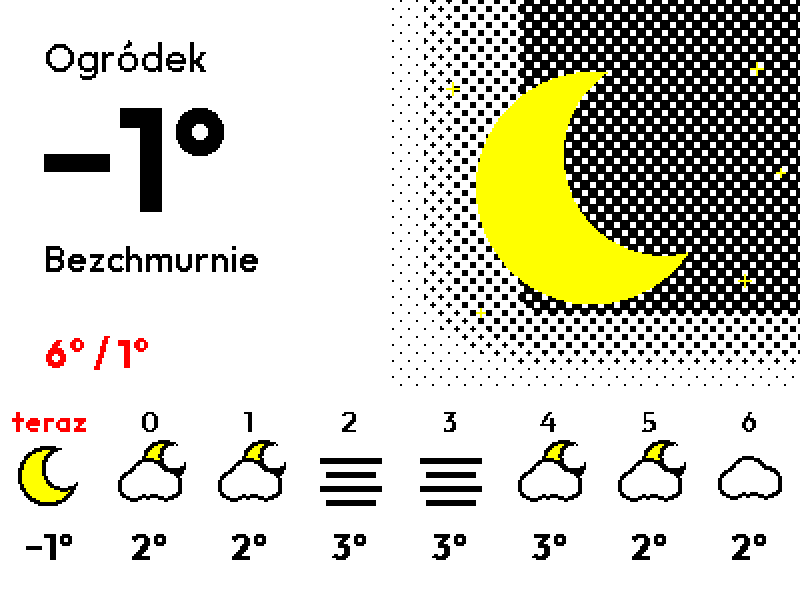
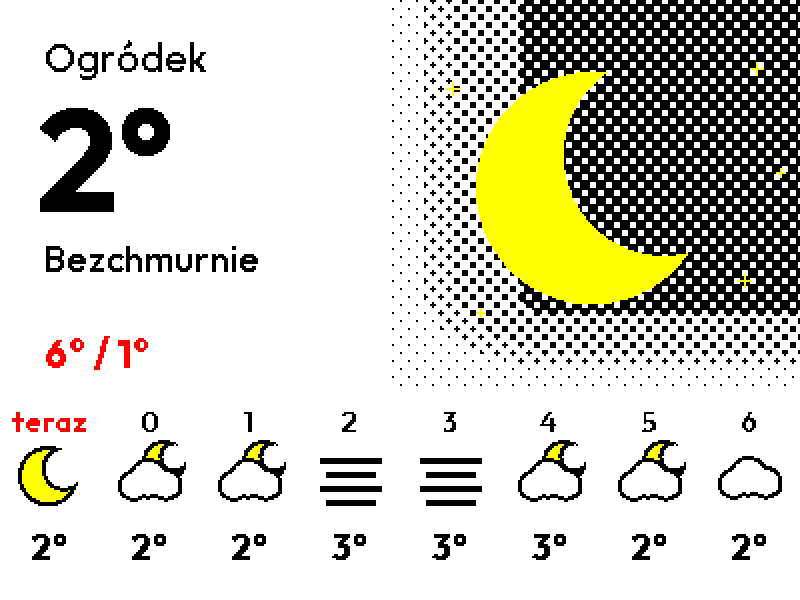
Add battery reporting and stale data warnings, and fix review findings
Report battery voltage, level and charging state to Home Assistant, and warn
on screen when the battery is low, Home Assistant has been unreachable for 8
wakes, or the data is over an hour old.

Fixes from an independent review: keep the power latch held while awake, reject
invalid helper data so it can't blank the screen, retry failed redraws, wait
longer for Home Assistant after a manual wake, and confirm new firmware only
after it reads valid data. Also turn off panel power during sleep and keep the
boot counter out of flash.

In the Home Assistant package, add a timestamp to the data, only change the
shown temperature once the real one is a full degree away, and set entities in
one place. The README's setup and update steps are corrected.

Changed region(s): [[0.0312, 0.18, 0.2812, 0.36], [0.0312, 0.87, 0.0938, 0.93]]

diff --git a/design/preview.py b/design/preview.py
@@ -24,8 +24,8 @@ DAY = {
               ("13", "partly", "3°"), ("14", "cloud", "3°"), ("15", "rain", "2°"), ("16", "rain", "1°")],
 }
 NIGHT = {
-    "hero": "clear_night", "temp": f"{MINUS}1°", "lines": ("Bezchmurnie", ""), "range": f"6° / 1°",
-    "hours": [("teraz", "moon", f"{MINUS}1°"), ("0", "partly_moon", "2°"), ("1", "partly_moon", "2°"), ("2", "fog", "3°"),
+    "hero": "clear_night", "temp": "2°", "lines": ("Bezchmurnie", ""), "range": "6° / 1°",
+    "hours": [("teraz", "moon", "2°"), ("0", "partly_moon", "2°"), ("1", "partly_moon", "2°"), ("2", "fog", "3°"),
               ("3", "fog", "3°"), ("4", "partly_moon", "3°"), ("5", "partly_moon", "2°"), ("6", "cloud", "2°")],
 }
 

diff --git a/design/art.py b/design/art.py
@@ -40,8 +40,7 @@ def streaks(c, spots, color, length=15, width=2):
 def bolt(c, x, y, s=1.0):
     points = [(0, 0), (-16, 34), (-3, 34), (-13, 66), (17, 22), (3, 22), (13, 0)]
     scaled = [((x + px * s) * SS, (y + py * s) * SS) for px, py in points]
-    outline = [((x + px * s * 1.0) * SS, (y + py * s) * SS) for px, py in points]
-    c.shape(BLACK, lambda d: d.line(outline + outline[:1], fill=255, width=5 * SS))
+    c.shape(BLACK, lambda d: d.line(scaled + scaled[:1], fill=255, width=5 * SS))
     c.shape(YELLOW, lambda d: d.polygon(scaled, fill=255))
 
 

diff --git a/esphome/rtc_state.h b/esphome/rtc_state.h
@@ -1,0 +1,10 @@
+#pragma once
+
+#include <cstdint>
+
+#include "esp_attr.h"
+
+// RTC memory survives deep sleep but not a power loss or restart, when these all return to zero.
+static RTC_DATA_ATTR uint32_t rtc_failed_wakes = 0;  // Wakes in a row without Home Assistant.
+static RTC_DATA_ATTR bool rtc_low_battery = false;
+static RTC_DATA_ATTR char rtc_last_data[256] = {0};  // Lets the device redraw while offline.

diff --git a/README.md b/README.md
@@ -16,12 +16,14 @@ These are generated previews with sample data. On the real panel, the inks are m
 2. The device wakes every 15 minutes, connects to Home Assistant and reads the helper.
 3. If the value changed, the device redraws, which takes about 20 seconds. Then it goes back to sleep.
 
+The screen shows a small warning in three cases: Home Assistant has been unreachable for 8 wakes in a row (about 2 hours), the data is over an hour old, or the battery is low. Warnings cause one redraw when they appear and one when they clear.
+
 The device only reads the helper, so it doesn't need permission to perform actions in Home Assistant. All the forecast logic stays in Home Assistant, where it's easy to change without rebuilding firmware.
 
 ## What you need
 
 - A Zectrix Note 4C. This firmware won't work on the black-and-white Note 4, which has a different panel.
-- Home Assistant with a weather entity that provides hourly forecasts, and the ESPHome integration.
+- Home Assistant with the ESPHome and sun integrations, and a weather entity that provides hourly forecasts.
 - [ESPHome](https://esphome.io/) 2026.10 or newer, either the CLI or the Device Builder add-on.
 - A 2.4 GHz Wi-Fi network.
 
@@ -29,7 +31,7 @@ The device only reads the helper, so it doesn't need permission to perform actio
 
 ### 1. Back up the factory firmware
 
-Flashing replaces the factory firmware, so save the whole flash first. Keep the file private: it can contain data from your device.
+Flashing replaces the factory firmware, so save the whole flash first. Keep the file private: it can contain data from your device. If the port isn't detected, enter download mode: hold the round BOOT button, press the RESET pinhole once, then release BOOT.
 
 ```bash
 pip install esptool
@@ -39,17 +41,19 @@ pip install esptool
 python -m esptool --chip esp32s3 --port COM3 --baud 460800 read-flash 0x0 0x1000000 note4c-factory.bin
 ```
 
-Replace `COM3` with your device's port.
+Replace `COM3` with your device's port. To restore it later, use `write-flash 0x0 note4c-factory.bin` in place of the `read-flash` arguments.
 
 ### 2. Set up Home Assistant
 
-Copy [homeassistant/note4c_screen.yaml](homeassistant/note4c_screen.yaml) into your [packages](https://www.home-assistant.io/docs/configuration/packages/) folder and change the two entity IDs at the top to your own. Restart Home Assistant, then check that `input_text.note4c_screen` fills with data.
+Copy [homeassistant/note4c_screen.yaml](homeassistant/note4c_screen.yaml) into your [packages](https://www.home-assistant.io/docs/configuration/packages/) folder and set your two entities under `variables`. Restart Home Assistant, then check that `input_text.note4c_screen` fills with data.
 
 You can also create the helper and automation in the UI, using the same values.
 
 ### 3. Configure the firmware
 
-Copy [esphome/secrets.example.yaml](esphome/secrets.example.yaml) to `esphome/secrets.yaml` and fill it in. If you use Device Builder, add these values to its Secrets instead.
+Copy [esphome/secrets.example.yaml](esphome/secrets.example.yaml) to `esphome/secrets.yaml` and fill it in. You won't know the device's IP address before the first flash, so a placeholder is fine for `note4c_address` at first. Once you know it, update the secret and flash again.
+
+To use Device Builder, the art needs to go with the config. Create a bundle with `esphome bundle esphome/note4c.yaml` and import it in Device Builder. The bundle includes your secrets, so don't share it.
 
 The settings at the top of [esphome/note4c.yaml](esphome/note4c.yaml) cover the wake interval, the label above the temperature, and the helper's name. Screen text is in Polish. To change the language, edit `text_for` and the `"teraz"` label in the same file, and add any new letters to the fonts' `glyphs`.
 
@@ -59,11 +63,9 @@ The settings at the top of [esphome/note4c.yaml](esphome/note4c.yaml) cover the 
 esphome run esphome/note4c.yaml --device COM3
 ```
 
-If the port isn't detected, enter download mode: hold the round BOOT button, press the RESET pinhole once, then release BOOT.
-
 ### 5. Add it to Home Assistant
 
-Add the ESPHome integration using the device's IP address and the API key from your secrets. Most wakes are short, so press BOOT first: it keeps the device awake for 3 minutes.
+Press BOOT, which keeps the device awake for 3 minutes, then add the ESPHome integration using the device's IP address and the API key from your secrets.
 
 ## Buttons
 
@@ -71,26 +73,29 @@ Add the ESPHome integration using the device's IP address and the API key from y
 |---|---|
 | **BOOT** (round, front) | Wakes the device, reads fresh data, and keeps it awake for 3 minutes |
 | **RESET** (pinhole) | Restarts the device, also with the 3-minute window |
-| **UP, DOWN** | Not used |
+| **UP, DOWN** | Not used by this firmware. On the board, DOWN is also the power key |
 
 ## Updating over Wi-Fi
 
-Press **BOOT**, then press **Install** in Device Builder, or run `esphome run` with the device's IP address, within 3 minutes.
+The upload has to arrive during the 3 minutes after you press BOOT, and a build can take longer than that, so build first:
+
+1. Build the firmware: `esphome compile esphome/note4c.yaml`, or a build in Device Builder.
+2. Press **BOOT**.
+3. Upload it: `esphome upload esphome/note4c.yaml --device <ip>`, or Install in Device Builder.
 
 Waking the device first matters. With mDNS on, Device Builder keeps showing the sleeping device as online, so Install tries to send straight away and usually fails.
 
-If an update crashes on boot, the bootloader returns to the previous firmware. New firmware is only confirmed once Home Assistant has connected and the wake cycle has reached that point.
+New firmware is only confirmed once it has read valid screen data from Home Assistant. Until then, the bootloader returns to the previous firmware on the next start, so an update that crashes or uses the wrong helper name is undone.
 
 ## Known limitations
 
-- **Battery life isn't measured**, and the firmware doesn't report battery level yet. The hourly strip means a redraw most hours.
+- **Battery life isn't measured yet.** The firmware reports battery level to Home Assistant, using the vendor's voltage curve, which hasn't been checked against this battery. It redraws whenever anything visible changes, such as a temperature crossing a rounding boundary, so this can be far more often than hourly, up to once per wake.
 - **Possible crash on sleep:** an early test build crashed once in `mdns_free` when entering deep sleep. mDNS is needed for Device Builder to find the device. The crash hasn't been seen in testing since, but that testing was brief, and it hasn't been run for long at the final 15-minute interval.
-- **Stale data isn't flagged:** if Home Assistant or the automation stops, the screen keeps showing the last values.
 - **Slow refresh:** the panel only does full refreshes of about 20 seconds, with visible flashing. That's normal for four-colour e-paper.
 
 ## Changing the art
 
-The art is drawn by Python scripts in [design/](design), using halftone dots to get extra tones from four inks. Run them with Pillow and requests installed:
+The art is drawn by Python scripts in [design/](design), using halftone dots to get extra tones from four inks. Install what they need with `pip install -r design/requirements.txt`, then run them:
 
 ```bash
 python design/art.py
@@ -100,7 +105,7 @@ python design/art.py
 python design/preview.py
 ```
 
-`art.py` writes the images that get built into the firmware to `esphome/art/`. To send them to Device Builder, create a bundle with `esphome bundle esphome/note4c.yaml` and import it. The bundle includes the secrets the config uses, so don't share it.
+`art.py` writes the images that get built into the firmware to `esphome/art/`. To send them to Device Builder, create and import a bundle as in step 3.
 
 ![All the weather art](docs/art-sheet.png)
 
